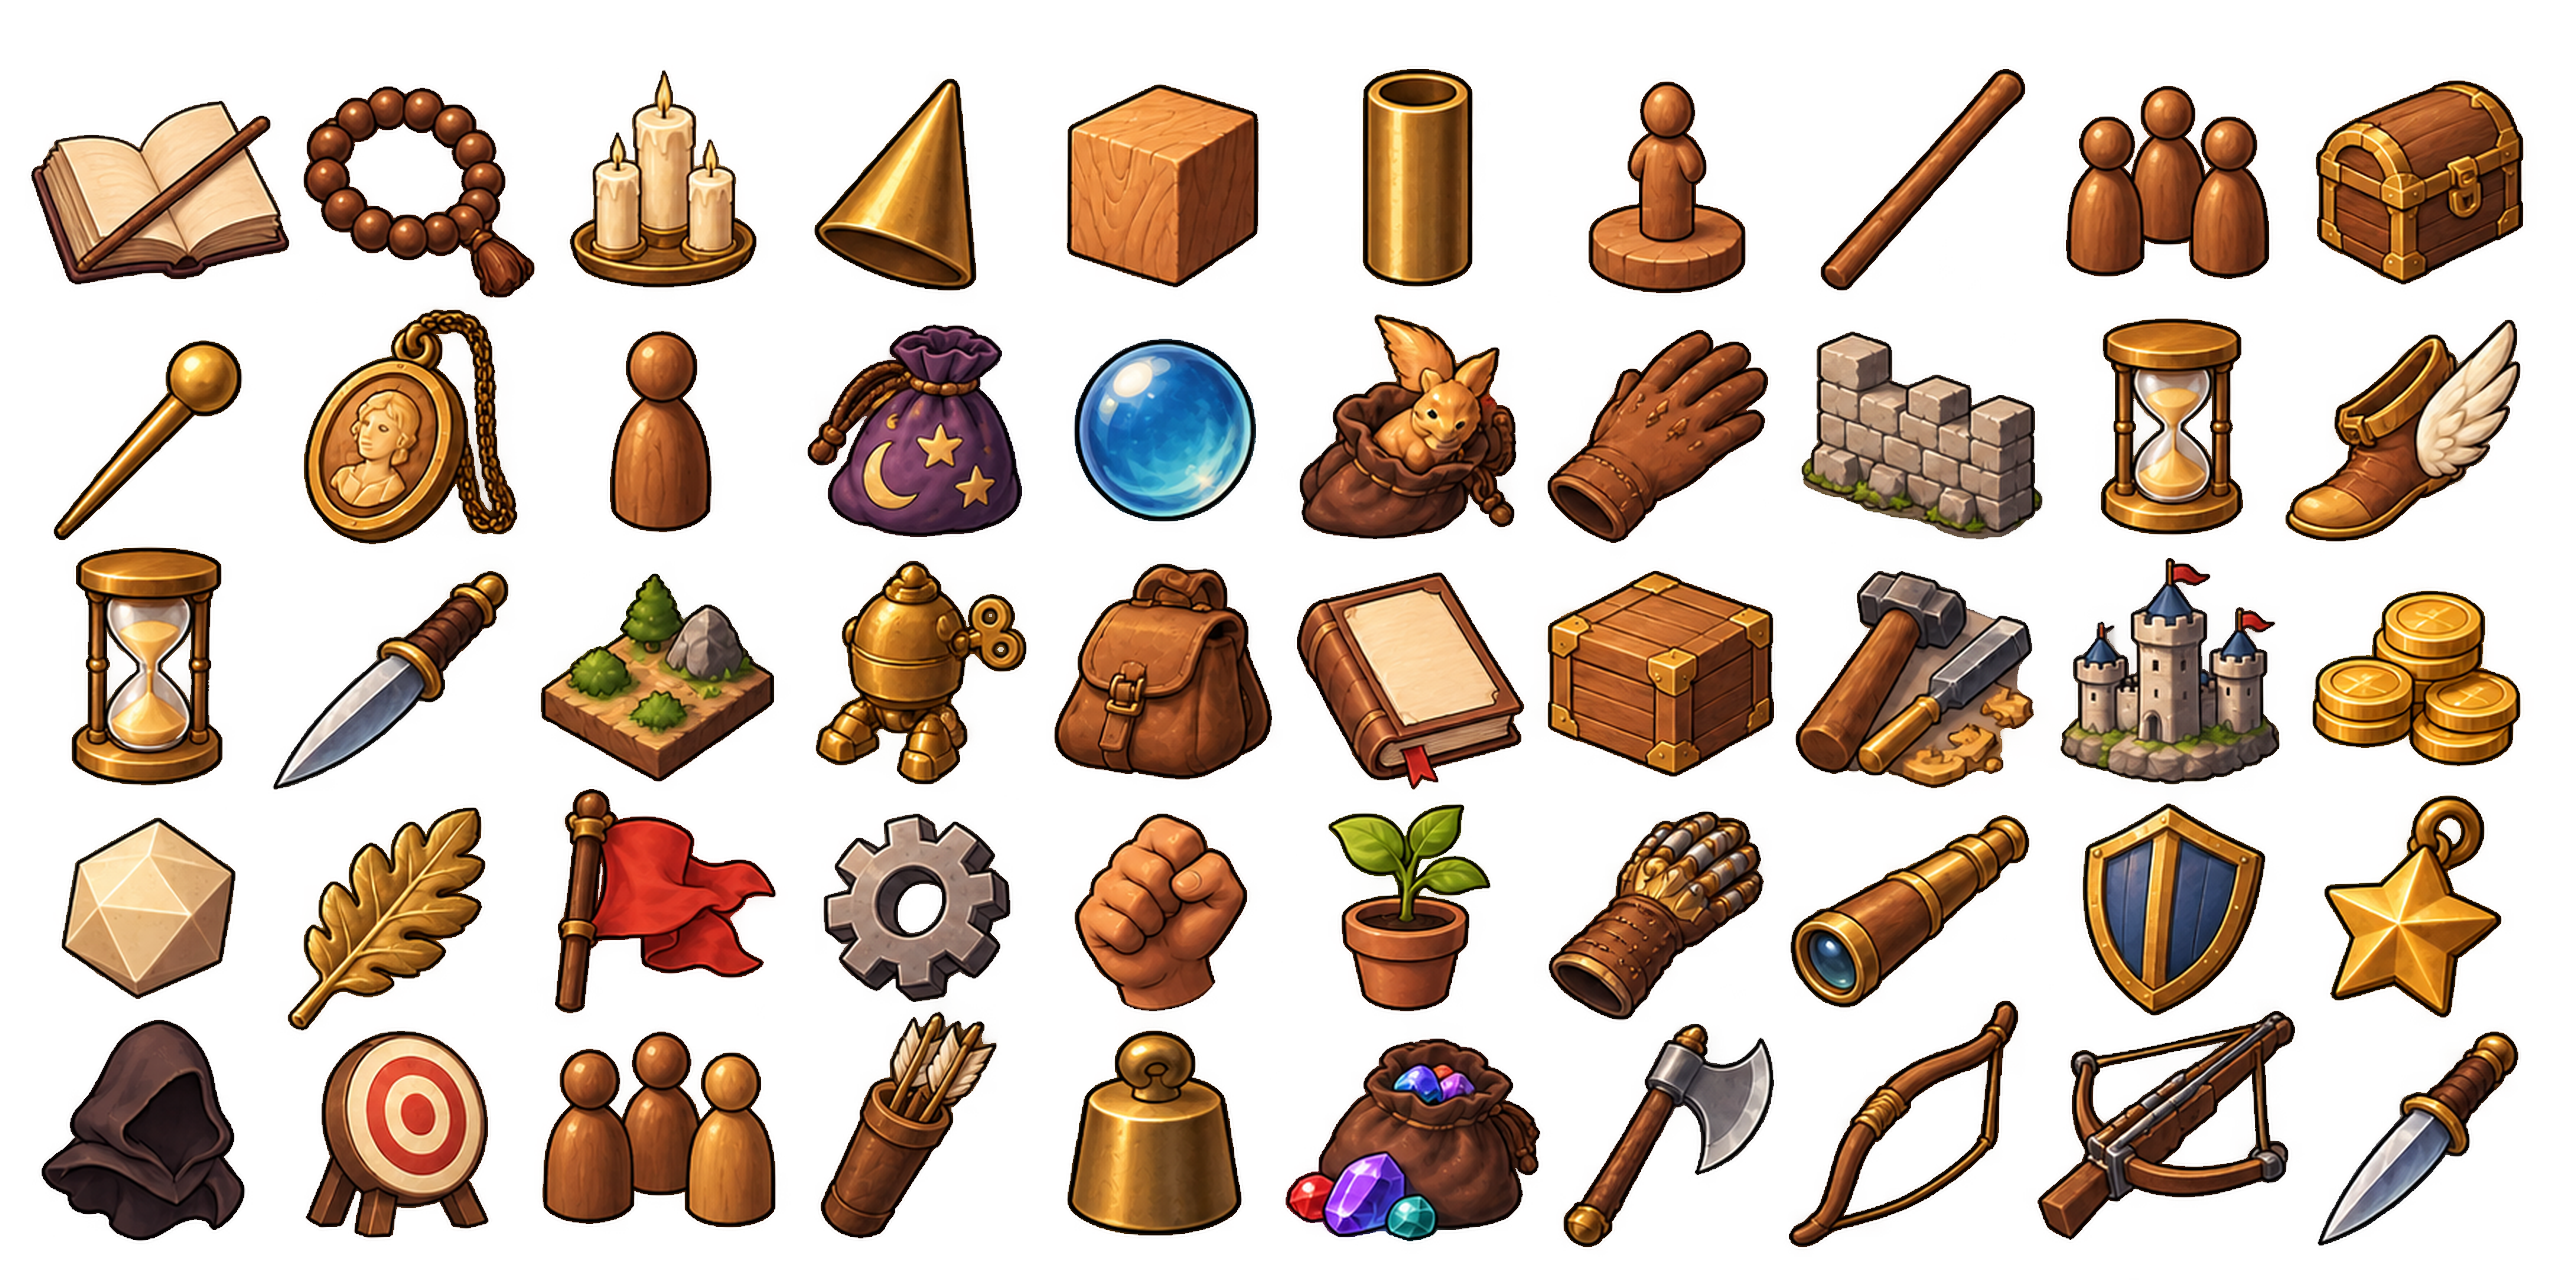
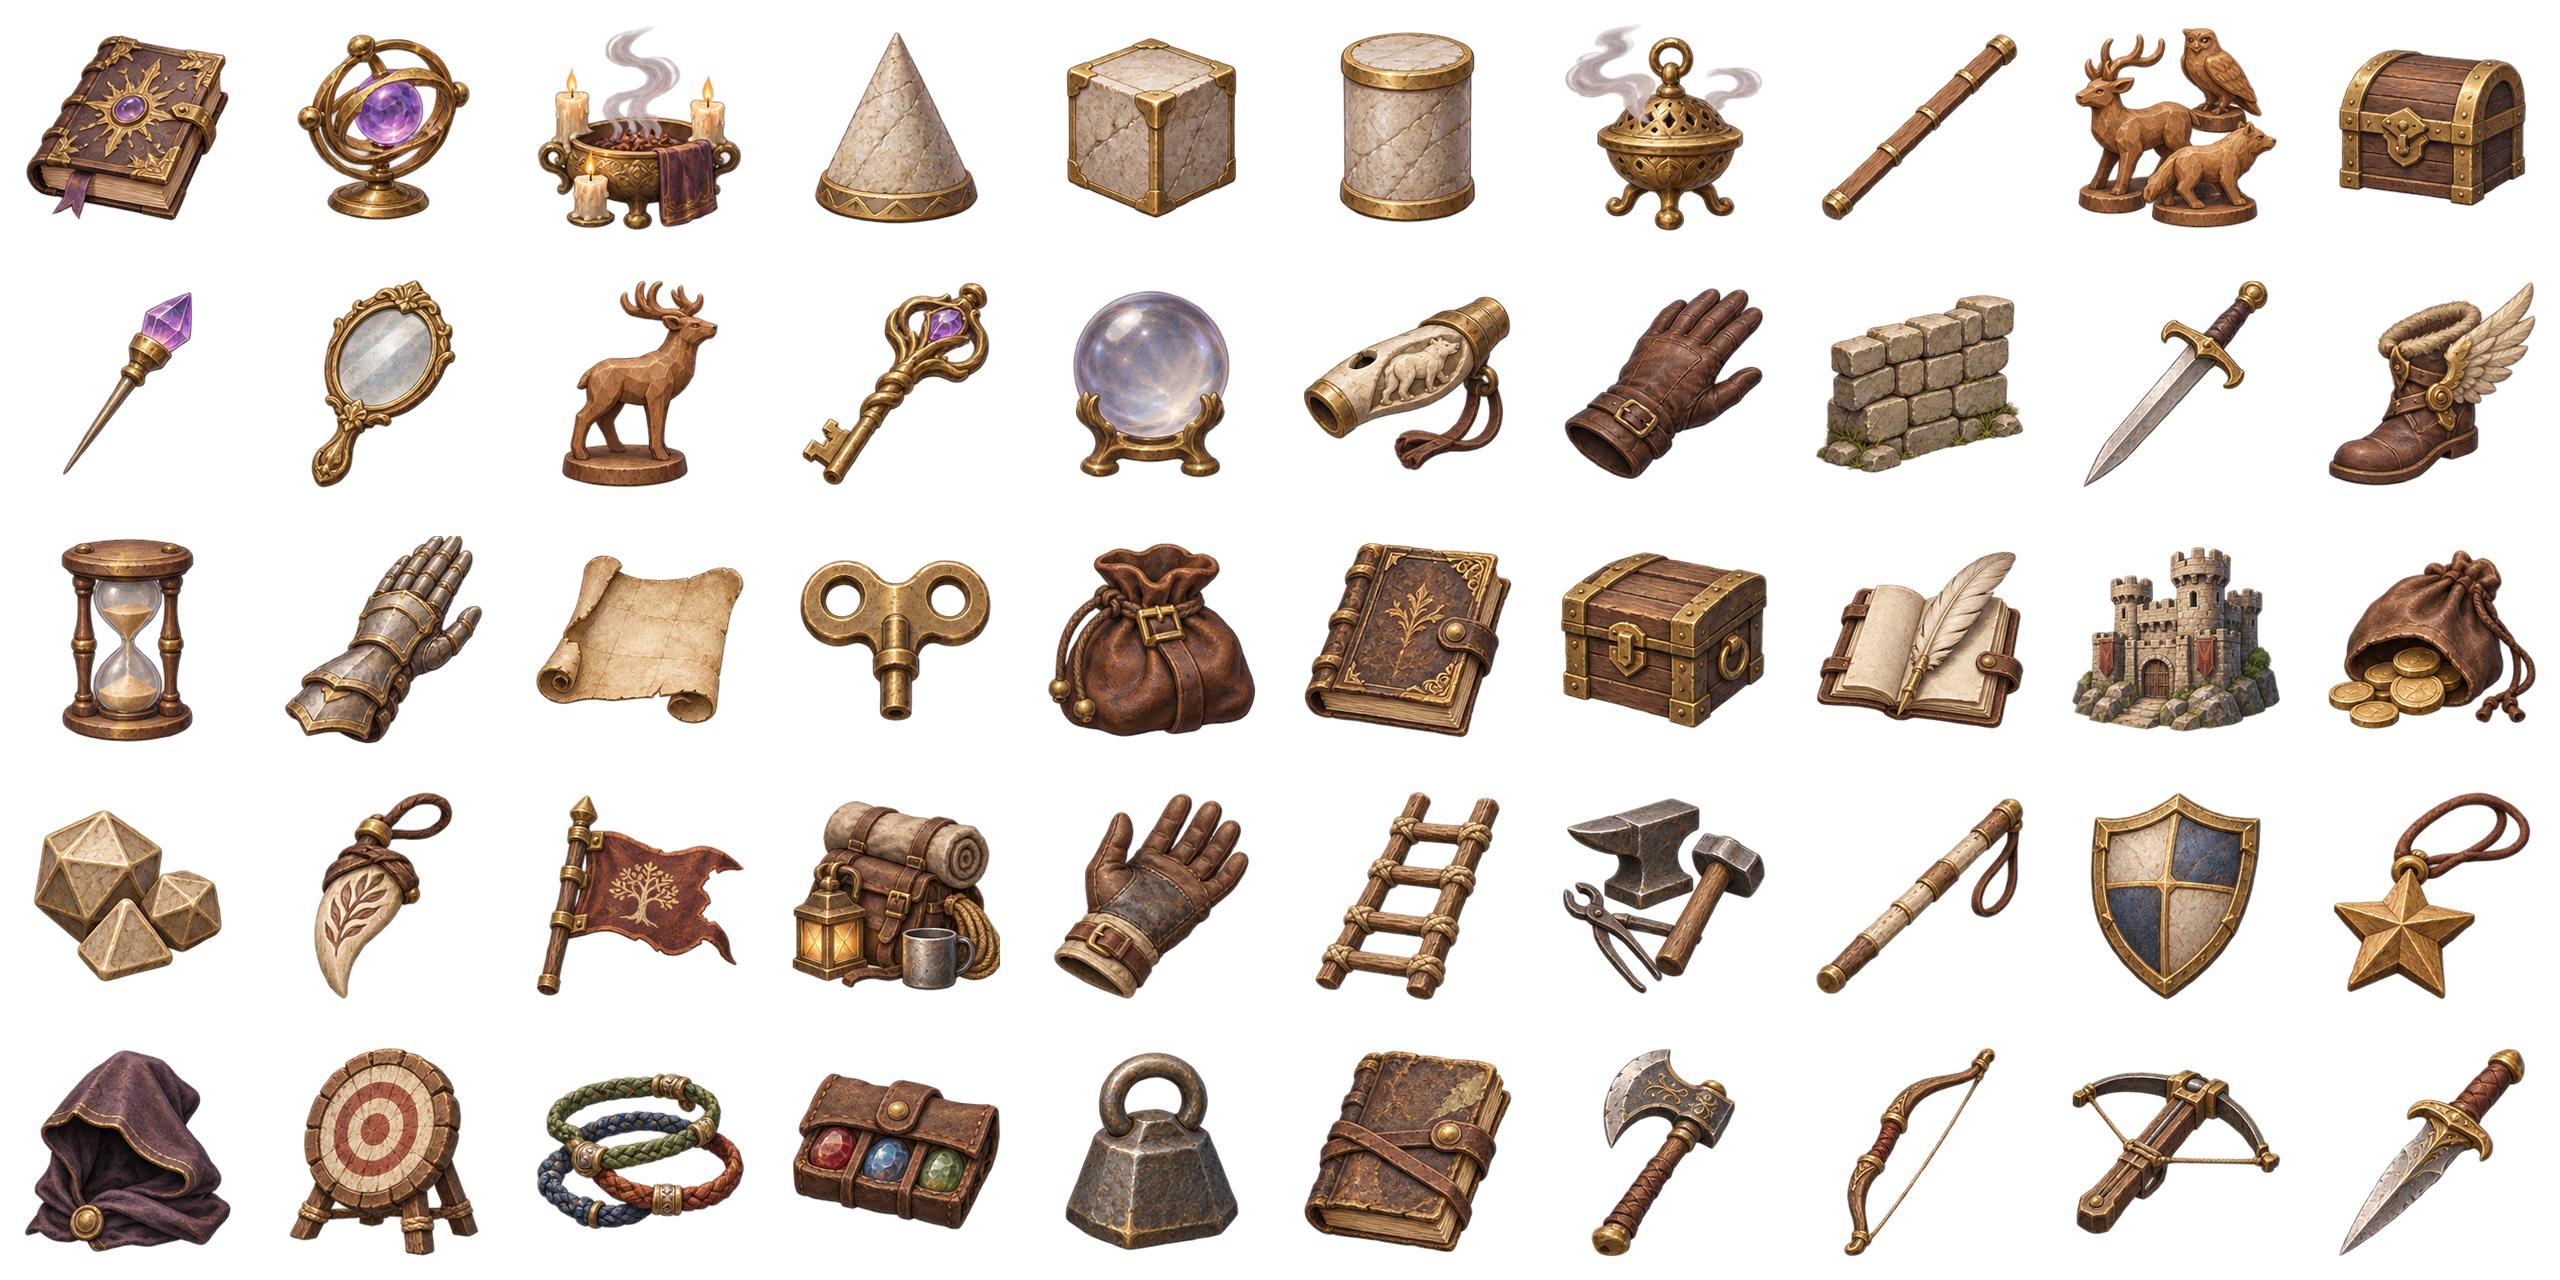
grid: G02 v3

diff --git a/art-tasks/grid/GRID.md b/art-tasks/grid/GRID.md
@@ -26,7 +26,7 @@ Species portraits (90) are postponed.
 | Sheet | Cells | Content | Status |
 |---|---|---|---|
 | G01 | 100 | app UI icons (replace every line icon) | needs review: cells 21, 96 (die geometry; hilt crop); v3 alpha and margins pass |
-| G02 | 100 | app UI icons, then species emblems | claimed by codex-grid-session 2026-11-02T15:12:54.485993+00:00 |
+| G02 | 100 | app UI icons, then species emblems | done (v3; alpha and margins pass) |
 | G03 | 100 | species emblems and icons, features, items | needs review: cells 39, 42, 50 (v3; physical-prop check after retry) |
 | G04 | 93 | items, library, rules, subclass and background emblems, vehicles, objects | needs review: cells 8, 91 (v3; blank-scroll and eight-ray checks after retry) |
 
